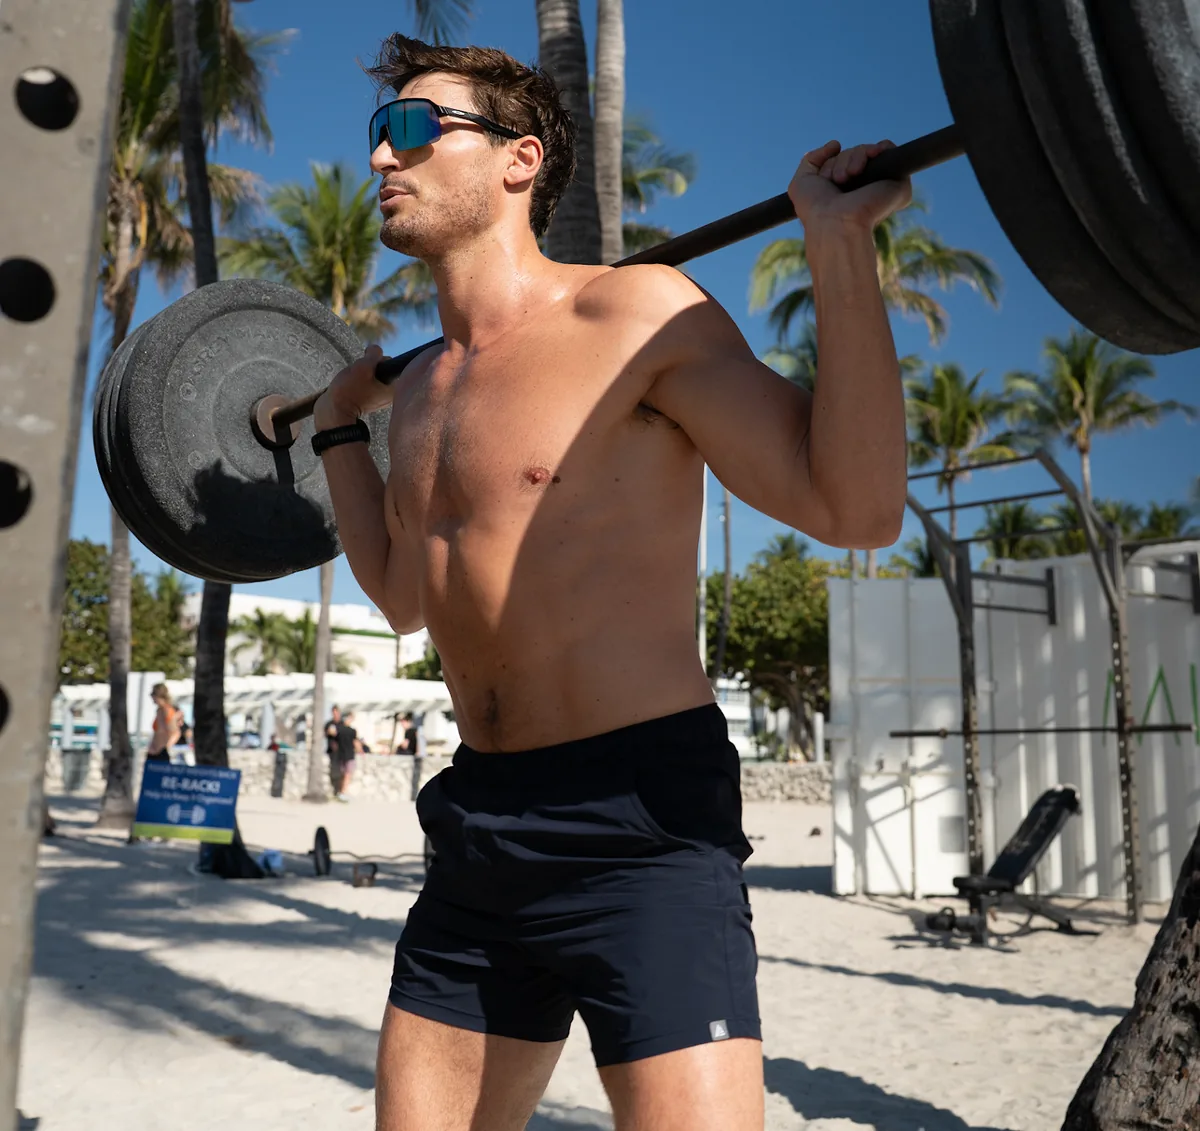
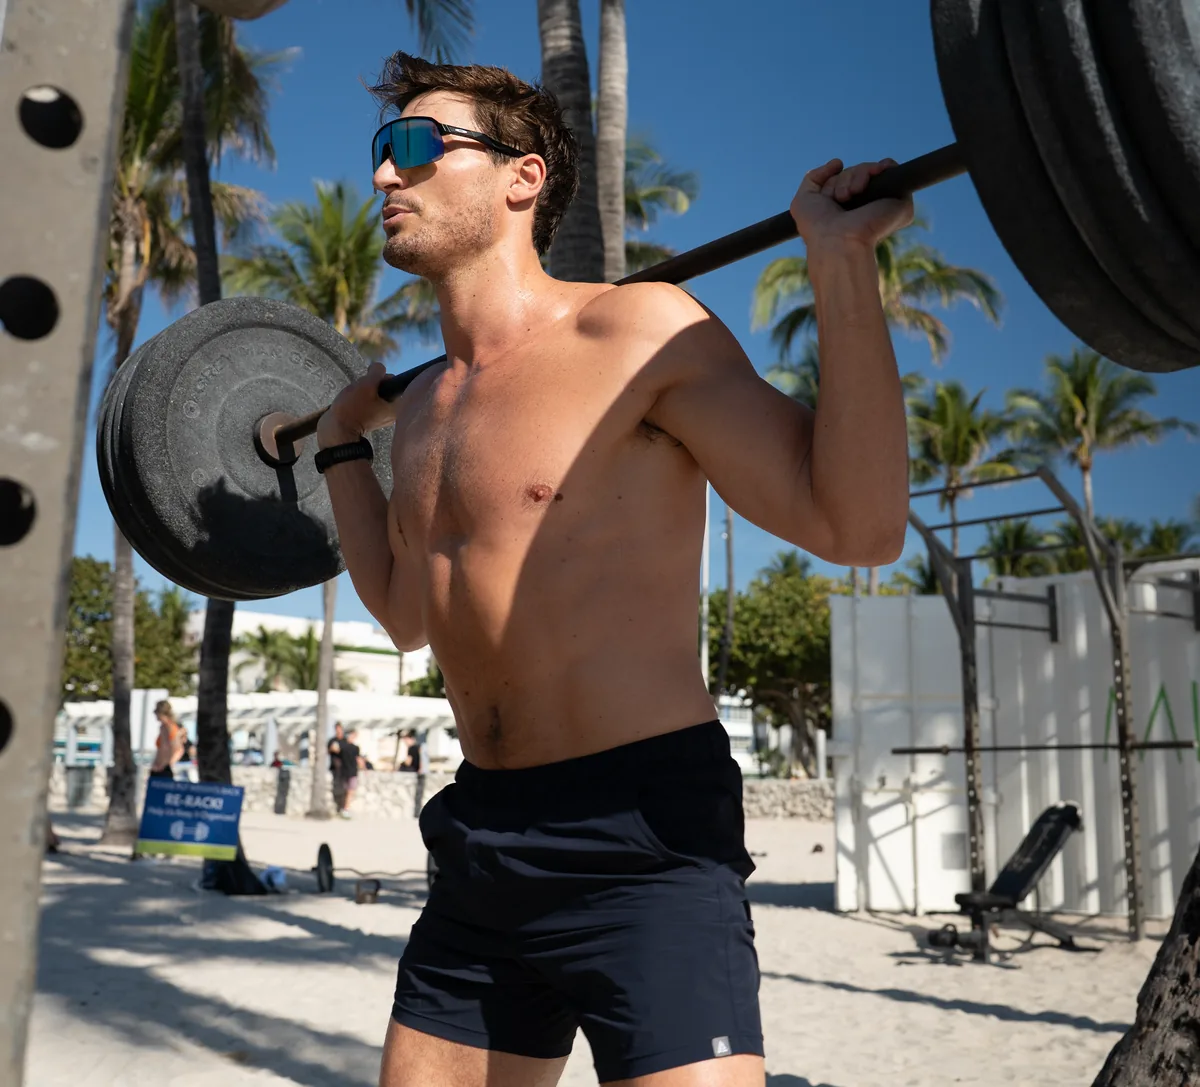
Photo library: Bobby at the beach gym, two frames (one replaces the smaller beach-gym-barbell crop); 71 photos (#569)
Claude-Session: https://claude.ai/code/session_01FwBuCoGgVzUwZtu9MbiFhK

diff --git a/photos/index.html b/photos/index.html
@@ -34,7 +34,7 @@
 <figure class="photo-frame" data-search="bench-towel towel track track"><a href="/media/library/bench-towel-2400.webp" aria-label="Open Towel"><img src="/media/library/bench-towel-600.webp" alt="Two runners on the track bench in morning sun, one drying his face with a towel." loading="lazy" decoding="async" width="1514" height="2019"></a></figure>
 <figure class="photo-frame" data-search="refuel refuel social terrace"><a href="/media/library/refuel-2400.webp" aria-label="Open Refuel"><img src="/media/library/refuel-600.webp" alt="An athlete in a black T-shirt stirs a drink in a shaker on a terrace chair." loading="lazy" decoding="async" width="1514" height="1503"></a></figure>
 <figure class="photo-frame" data-search="bw-track-talk between sets track track"><a href="/media/library/bw-track-talk-2400.webp" aria-label="Open Between sets"><img src="/media/library/bw-track-talk-600.webp" alt="Black and white: runners standing on the track lanes talking between sets." loading="lazy" decoding="async" width="1514" height="1010"></a></figure>
-<figure class="photo-frame" data-search="beach-gym-barbell beach gym strength outdoor beach gym"><a href="/media/library/beach-gym-barbell-2400.webp" aria-label="Open Beach gym"><img src="/media/library/beach-gym-barbell-600.webp" alt="An athlete in sunglasses with a loaded barbell across his shoulders at an outdoor beach gym, palms behind." loading="lazy" decoding="async" width="1514" height="1427"></a></figure>
+<figure class="photo-frame" data-search="beach-gym-barbell beach gym strength outdoor beach gym"><a href="/media/library/beach-gym-barbell-2400.webp" aria-label="Open Beach gym"><img src="/media/library/beach-gym-barbell-600.webp" alt="An athlete in sunglasses squats with a loaded barbell across his shoulders at an outdoor beach gym, palms behind." loading="lazy" decoding="async" width="2779" height="2518"></a></figure><figure class="photo-frame" data-search="beach-gym-squat-palms under the bar strength outdoor beach gym"><a href="/media/library/beach-gym-squat-palms-2400.webp" aria-label="Open Under the bar"><img src="/media/library/beach-gym-squat-palms-600.webp" alt="An athlete in sunglasses braces under a loaded barbell at an outdoor beach gym, palm trees and blue sky behind." loading="lazy" decoding="async" width="2301" height="2640"></a></figure>
 <figure class="photo-frame" data-search="raw-curve-dawn curve at dawn track track"><a href="/media/library/raw-curve-dawn-2400.webp" aria-label="Open Curve at dawn"><img src="/media/library/raw-curve-dawn-600.webp" alt="Runners from behind rounding the track curve at dawn, the field and stands beside them." loading="lazy" decoding="async" width="6024" height="4024"></a></figure>
 <figure class="photo-frame" data-search="towel-and-water towel and water track track"><a href="/media/library/towel-and-water-2400.webp" aria-label="Open Towel and water"><img src="/media/library/towel-and-water-600.webp" alt="A runner on the track after the session, towel over his shoulder and a water bottle in hand, clouds and sun behind." loading="lazy" decoding="async" width="1281" height="1938"></a></figure>
 <figure class="photo-frame" data-search="terrace-after after, on the terrace social café terrace"><a href="/media/library/terrace-after-2400.webp" aria-label="Open After, on the terrace"><img src="/media/library/terrace-after-600.webp" alt="Three runners sit on café chairs on a green terrace among plants after the run, a bridge overhead." loading="lazy" decoding="async" width="1320" height="1927"></a></figure>
